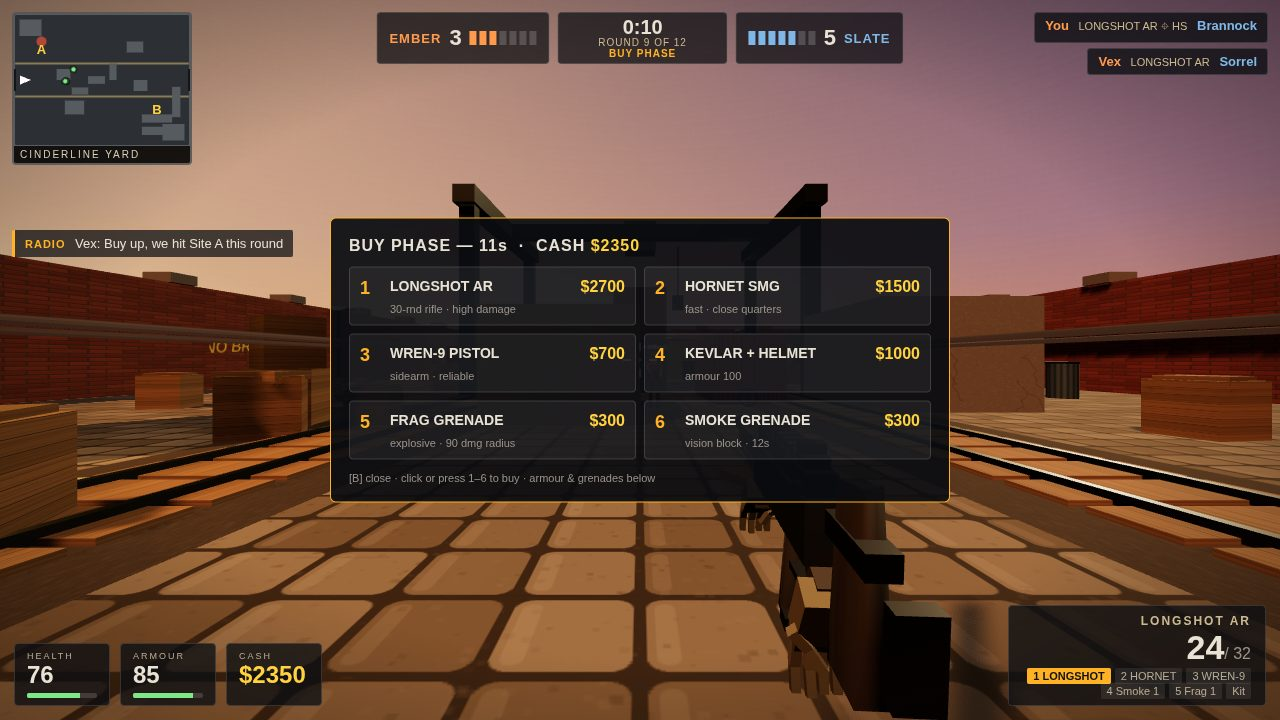
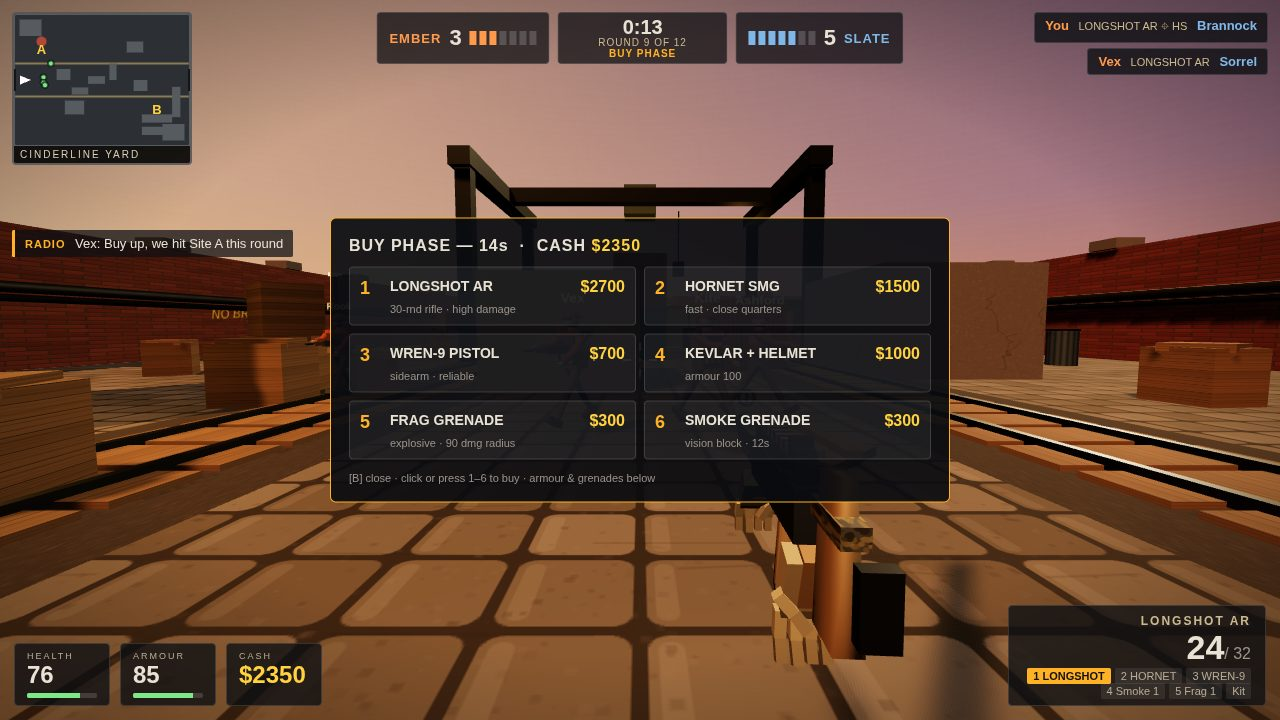
Parent fix round 1: sky seam wrap, sign font-fit, viewmodel wood+light, bigger hands, lighter bots, thin tracer, container stencils, buy pitch

diff --git a/game/src/weapon.js b/game/src/weapon.js
@@ -23,19 +23,20 @@ export function buildViewmodel(camera) {
   const camo = new THREE.MeshStandardMaterial({ map: camoTex(), roughness: .55, metalness: .25 });
   const gunmetal = new THREE.MeshStandardMaterial({ color: 0x3d4048, roughness: .42, metalness: .7 });
   const gunDark = new THREE.MeshStandardMaterial({ color: 0x232529, roughness: .5, metalness: .6 });
-  const polymer = new THREE.MeshStandardMaterial({ color: 0x38302a, roughness: .8, metalness: .05 });
-  const glove = new THREE.MeshStandardMaterial({ color: 0x6a5f45, roughness: .95 });
-  const gloveDark = new THREE.MeshStandardMaterial({ color: 0x4a4230, roughness: .95 });
+  // warm mid-brown furniture (was near-black 0x38302a: read as one flat black box in dusk)
+  const polymer = new THREE.MeshStandardMaterial({ color: 0x8a6a42, roughness: .7, metalness: .05 });
+  const glove = new THREE.MeshStandardMaterial({ color: 0x9c8a62, roughness: .95 });
+  const gloveDark = new THREE.MeshStandardMaterial({ color: 0x6e6046, roughness: .95 });
   const brass = new THREE.MeshStandardMaterial({ color: 0xc8a03a, roughness: .3, metalness: .9 });
 
   const vm = new THREE.Group();
-  vm.position.set(.25, -.22, -.72);
+  vm.position.set(.25, -.22, -.77);
   vm.rotation.y = -.06;
-  vm.scale.setScalar(.72);
+  vm.scale.setScalar(.68);
   camera.add(vm);
   // warm fill light so the viewmodel reads in dusk (camera-attached, short range)
-  const vmLight = new THREE.PointLight(0xffe0b0, 1.2, 5, 1.6);
-  vmLight.position.set(.35, .35, -.4);
+  const vmLight = new THREE.PointLight(0xffe0b0, 1.9, 5, 1.6);
+  vmLight.position.set(.3, .35, -.25);
   camera.add(vmLight);
   // gun tilted slightly: stock rises into frame, muzzle dips a touch
   const gun = new THREE.Group(); gun.rotation.x = .06; vm.add(gun);
@@ -70,7 +71,7 @@ export function buildViewmodel(camera) {
   // TAPERED stock: wide butt (.11 tall) -> narrow at receiver, + cheek riser + butt pad
   const stock = new THREE.Mesh(taperedBox(.055, .11, .04, .07, .3), polymer);
   stock.position.set(0, -.01, .3); stock.rotation.x = -.04; gun.add(stock);
-  const cheek = new THREE.Mesh(new THREE.BoxGeometry(.05, .04, .16), gunDark);
+  const cheek = new THREE.Mesh(new THREE.BoxGeometry(.05, .04, .16), camo);
   cheek.position.set(0, .055, .3); gun.add(cheek);
   const buttPad = new THREE.Mesh(new THREE.BoxGeometry(.06, .12, .03), gunDark);
   buttPad.position.set(0, -.01, .46); gun.add(buttPad);
@@ -121,14 +122,14 @@ export function buildViewmodel(camera) {
     palm.castShadow = true; h.add(palm);
     const knuckle = new THREE.Mesh(new THREE.BoxGeometry(.08, .03, .04), gloveDark);
     knuckle.position.y = -.055; h.add(knuckle);
-    // 4 fingers, spaced with real gaps (width .016, spacing .021)
+    // 4 fingers, spaced with real gaps (width .02, spacing .025 — was .016/.021, unreadable at 720p)
     for (let i = 0; i < 4; i++) {
-      const f = finger(.05, .04, .016);
-      f.position.set(-.0315 + i * .021, -.07, 0);
+      const f = finger(.05, .04, .02);
+      f.position.set(-.0375 + i * .025, -.07, 0);
       f.rotation.x = -.25 - (i === 1 ? .12 : 0);
       h.add(f);
     }
-    const thumb = finger(.04, .035, .016);
+    const thumb = finger(.04, .035, .02);
     thumb.position.set(isRight ? -.05 : .05, -.02, .015);
     thumb.rotation.z = isRight ? .7 : -.7; thumb.rotation.x = -.3;
     h.add(thumb);
@@ -136,13 +137,13 @@ export function buildViewmodel(camera) {
   }
   // right hand on pistol grip (fingers curled around grip)
   const handR = hand(true);
-  handR.scale.setScalar(1.25);
-  handR.position.set(0, -.14, .16); handR.rotation.set(.5, 0, 0);
+  handR.scale.setScalar(1.35);
+  handR.position.set(0, -.14, .13); handR.rotation.set(.35, 0, 0);
   gun.add(handR);
   // left hand on foregrip (fingers curled under handguard)
   const handL = hand(false);
-  handL.scale.setScalar(1.25);
-  handL.position.set(0, -.13, -.42); handL.rotation.set(.9, 0, 0);
+  handL.scale.setScalar(1.35);
+  handL.position.set(0, -.13, -.42); handL.rotation.set(.75, 0, 0);
   gun.add(handL);
   // (no forearm cuffs — free-floating cuffs read as debris; hands end at the wrist)
 

diff --git a/game/src/character.js b/game/src/character.js
@@ -22,11 +22,13 @@ function nameSprite(name, color) {
 export function buildBot(opts) {
   const team = opts.team;
   const jacket = team === 'ember' ? 0x9a4a26 : 0x527a9a;   // rust orange / slate blue (lightened to read at dusk)
-  const pants = team === 'ember' ? 0x4a3a2c : 0x3a4250;
-  const vest = team === 'ember' ? 0x5c3a22 : 0x3d4f63;
-  const helmet = team === 'ember' ? 0x6e3a1e : 0x41607e;
+  // lightened kit (was near-black in dusk: slate pants 0x3a4250, vest 0x3d4f63 read as silhouette)
+  const pants = team === 'ember' ? 0x6b543c : 0x4a5a78;
+  const vest = team === 'ember' ? 0x5c3a22 : 0x5a708c;
+  const helmet = team === 'ember' ? 0x6e3a1e : 0x527a9e;
   const skin = SKIN[opts.skin ?? 0];
-  const mJacket = mat(jacket), mPants = mat(pants), mVest = mat(vest, .8), mHelmet = mat(helmet, .6), mSkin = mat(skin), mBoot = mat(0x1e1a16, .7), mGun = mat(0x22242a, .5);
+  const mJacket = mat(jacket), mPants = mat(pants), mVest = mat(vest, .8), mHelmet = mat(helmet, .6), mSkin = mat(skin), mBoot = mat(0x2e2822, .7), mGun = mat(0x3a3d44, .5);
+  const mPouch = mat(0x8a7a55, .85); // tan pouches: contrast against the vest
 
   const root = new THREE.Group();           // at feet, y=0
   const hips = new THREE.Group(); hips.position.y = 1.06; root.add(hips);
@@ -44,7 +46,7 @@ export function buildBot(opts) {
   const plateB = new THREE.Mesh(new THREE.BoxGeometry(.34, .3, .05), mVest);
   plateB.position.set(0, .26, -.14); hips.add(plateB);
   for (const px of [-.11, 0, .11]) {
-    const pouch = new THREE.Mesh(new THREE.BoxGeometry(.09, .11, .05), mVest);
+    const pouch = new THREE.Mesh(new THREE.BoxGeometry(.09, .11, .05), mPouch);
     pouch.position.set(px, .08, .15); hips.add(pouch);
   }
   // shoulder pads
@@ -69,10 +71,10 @@ export function buildBot(opts) {
   // arms: shoulder pivot at (±.23, 1.48) -> in hips space y=.42
   function arm(side) {
     const sh = new THREE.Group(); sh.position.set(side * .23, .42, 0); hips.add(sh);
-    const up = new THREE.Mesh(new THREE.CylinderGeometry(.055, .05, .28, 8), mJacket);
+    const up = new THREE.Mesh(new THREE.CylinderGeometry(.068, .06, .28, 8), mJacket);
     up.position.y = -.14; up.castShadow = true; sh.add(up);
     const el = new THREE.Group(); el.position.y = -.28; sh.add(el);
-    const fo = new THREE.Mesh(new THREE.CylinderGeometry(.048, .042, .25, 8), mJacket);
+    const fo = new THREE.Mesh(new THREE.CylinderGeometry(.06, .052, .25, 8), mJacket);
     fo.position.y = -.125; fo.castShadow = true; el.add(fo);
     const hand = new THREE.Group(); hand.position.y = -.27; el.add(hand);
     const palm = new THREE.Mesh(new THREE.BoxGeometry(.07, .09, .04), mSkin);
@@ -102,7 +104,7 @@ export function buildBot(opts) {
   const legL = leg(-1), legR = leg(1);
   // rifle across chest (multi-part, held by both hands)
   const rifle = new THREE.Group();
-  const rMat = mGun, rWood = mat(0x4a3421, .7);
+  const rMat = mGun, rWood = mat(0x6b4e2e, .7);
   const recv = new THREE.Mesh(new THREE.BoxGeometry(.07, .11, .52), rMat); recv.castShadow = true; rifle.add(recv);
   const barrel = new THREE.Mesh(new THREE.CylinderGeometry(.022, .022, .34, 8), rMat);
   barrel.rotation.x = Math.PI / 2; barrel.position.set(0, .02, .42); rifle.add(barrel);

diff --git a/game/src/textures.js b/game/src/textures.js
@@ -127,9 +127,17 @@ export function stencilTex(text, fg = '#e8dcc2', bg = null, sub = '') {
   const [c, g] = cv(512, 256);
   if (bg) { g.fillStyle = bg; g.fillRect(0, 0, 512, 256); }
   g.fillStyle = fg; g.textAlign = 'center'; g.textBaseline = 'middle';
-  g.font = '900 150px Arial, sans-serif';
+  // shrink the headline until the whole word fits the canvas (a clipped sign reads as a bug)
+  let fs = 150;
+  g.font = `900 ${fs}px Arial, sans-serif`;
+  while (fs > 40 && g.measureText(text).width > 470) { fs -= 6; g.font = `900 ${fs}px Arial, sans-serif`; }
   g.fillText(text, 256, sub ? 108 : 128);
-  if (sub) { g.font = '700 44px Arial, sans-serif'; g.fillText(sub, 256, 208); }
+  if (sub) {
+    let sfs = 44;
+    g.font = `700 ${sfs}px Arial, sans-serif`;
+    while (sfs > 20 && g.measureText(sub).width > 470) { sfs -= 4; g.font = `700 ${sfs}px Arial, sans-serif`; }
+    g.fillText(sub, 256, 208);
+  }
   const t = new THREE.CanvasTexture(c); t.colorSpace = THREE.SRGBColorSpace; t.anisotropy = 4; return t;
 }
 // ---- graffiti tag (spray look)
@@ -137,7 +145,9 @@ export function graffitiTex(word, col = '#ff5a3c') {
   const [c, g] = cv(512, 256);
   g.clearRect(0, 0, 512, 256);
   g.fillStyle = col; g.textAlign = 'center'; g.textBaseline = 'middle';
-  g.font = 'italic 900 96px Arial, sans-serif';
+  let fs = 96;
+  g.font = `italic 900 ${fs}px Arial, sans-serif`;
+  while (fs > 40 && g.measureText(word).width > 470) { fs -= 6; g.font = `italic 900 ${fs}px Arial, sans-serif`; }
   g.save(); g.translate(256, 128); g.rotate(-0.06); g.fillText(word, 0, 0); g.restore();
   g.globalAlpha = .5;
   for (let i = 0; i < 260; i++) {
@@ -154,10 +164,13 @@ export function skyTex() {
   gr.addColorStop(0, '#1d2b4a'); gr.addColorStop(.42, '#7a5a72');
   gr.addColorStop(.62, '#e07840'); gr.addColorStop(.78, '#f2a45c'); gr.addColorStop(1, '#3a2c22');
   g.fillStyle = gr; g.fillRect(0, 0, 1024, 512);
-  // sun glow — full-canvas radial gradient (no rect: a rect edge reads as a slab in the sky)
-  const sg = g.createRadialGradient(700, 330, 8, 700, 330, 430);
-  sg.addColorStop(0, 'rgba(255,236,190,.95)'); sg.addColorStop(.25, 'rgba(255,190,110,.5)'); sg.addColorStop(1, 'rgba(255,180,90,0)');
-  g.fillStyle = sg; g.fillRect(0, 0, 1024, 512);
+  // sun glow — drawn 3x (x-1024, x, x+1024) so the texture wraps seamlessly:
+  // a glow cut at the canvas edge reads as a hard vertical slab in the sky dome
+  for (const gx of [700 - 1024, 700, 700 + 1024]) {
+    const sg = g.createRadialGradient(gx, 330, 8, gx, 330, 430);
+    sg.addColorStop(0, 'rgba(255,236,190,.95)'); sg.addColorStop(.25, 'rgba(255,190,110,.5)'); sg.addColorStop(1, 'rgba(255,180,90,0)');
+    g.fillStyle = sg; g.fillRect(0, 0, 1024, 512);
+  }
   // faint stars up top
   g.fillStyle = 'rgba(255,255,255,.7)';
   for (let i = 0; i < 90; i++) g.fillRect(Math.random() * 1024, Math.random() * 150, 1.4, 1.4);

diff --git a/game/src/game.js b/game/src/game.js
@@ -93,10 +93,10 @@ export class Game {
     for (const b of this.bots) { b.kills = 0; b.assists = 0; b.deaths = 0; b.hs = 0; b.dmg = 0; b.cash = 800; b.seenT = 0; }
   }
   _initFx() {
-    // tracer pool
-    const tMat = new THREE.MeshBasicMaterial({ color: 0xffd27a, transparent: true, opacity: .9, blending: THREE.AdditiveBlending, depthWrite: false });
+    // tracer pool (thin: .008 — the old .02 read as a laser beam)
+    const tMat = new THREE.MeshBasicMaterial({ color: 0xffd27a, transparent: true, opacity: .7, blending: THREE.AdditiveBlending, depthWrite: false });
     for (let i = 0; i < 10; i++) {
-      const m = new THREE.Mesh(new THREE.BoxGeometry(.02, .02, 1), tMat.clone());
+      const m = new THREE.Mesh(new THREE.BoxGeometry(.008, .008, 1), tMat.clone());
       m.visible = false; this.scene.add(m);
       this.tracers.push({ m, life: 0 });
     }
@@ -537,7 +537,7 @@ export class Game {
       this.demoFire = false;
     } else if (s === 'buy') {
       this.state = 'buy'; this.buyT = 14; this.buyOpen = true;
-      this.player.pos.set(-28, 0, 0); this.player.yaw = -Math.PI / 2;
+      this.player.pos.set(-28, 0, 0); this.player.yaw = -Math.PI / 2; this.player.pitch = -.07;
       // allies spread out ahead of the player (not stacked on the camera)
       const spots = [[-24, -3], [-24, 3], [-22, -6], [-22, 5]];
       this.bots.filter(b => b.team === 'ember').forEach((b, i) => {

diff --git a/game/src/map.js b/game/src/map.js
@@ -243,6 +243,9 @@ export function buildMap(scene) {
   sign(stencilTex('SITE A', '#e8dcc2', '#3a2c1c', 'WATER TOWER'), -26, 2.6, -15.9, 4, 2, 0);
   sign(stencilTex('SITE B', '#e8dcc2', '#3a2c1c', 'BOXCAR ROW'), 26, 2.6, 15.9, 4, 2, Math.PI);
   sign(stencilTex('DANGER', '#ff5a3c', '#1c1a18', 'HIGH VOLTAGE'), 12, 2.2, -9.9, 3, 1.5, 0);
+  // break up the mid container stack's flat south face (it fills the duel shot's left half)
+  sign(stencilTex('CL-7', '#d8cdb4', '#2c2118'), -2, 1.4, 1.34, 4, 2, 0);
+  sign(stencilTex('07', '#ffd23e', null), -2, 3.9, 1.34, 2, 1, 0);
   // big site letters painted on ground
   function groundLetter(tex, x, z, s) {
     const m = new THREE.Mesh(new THREE.PlaneGeometry(s, s), new THREE.MeshStandardMaterial({ map: tex, transparent: true, roughness: .9, polygonOffset: true, polygonOffsetFactor: -1 }));
